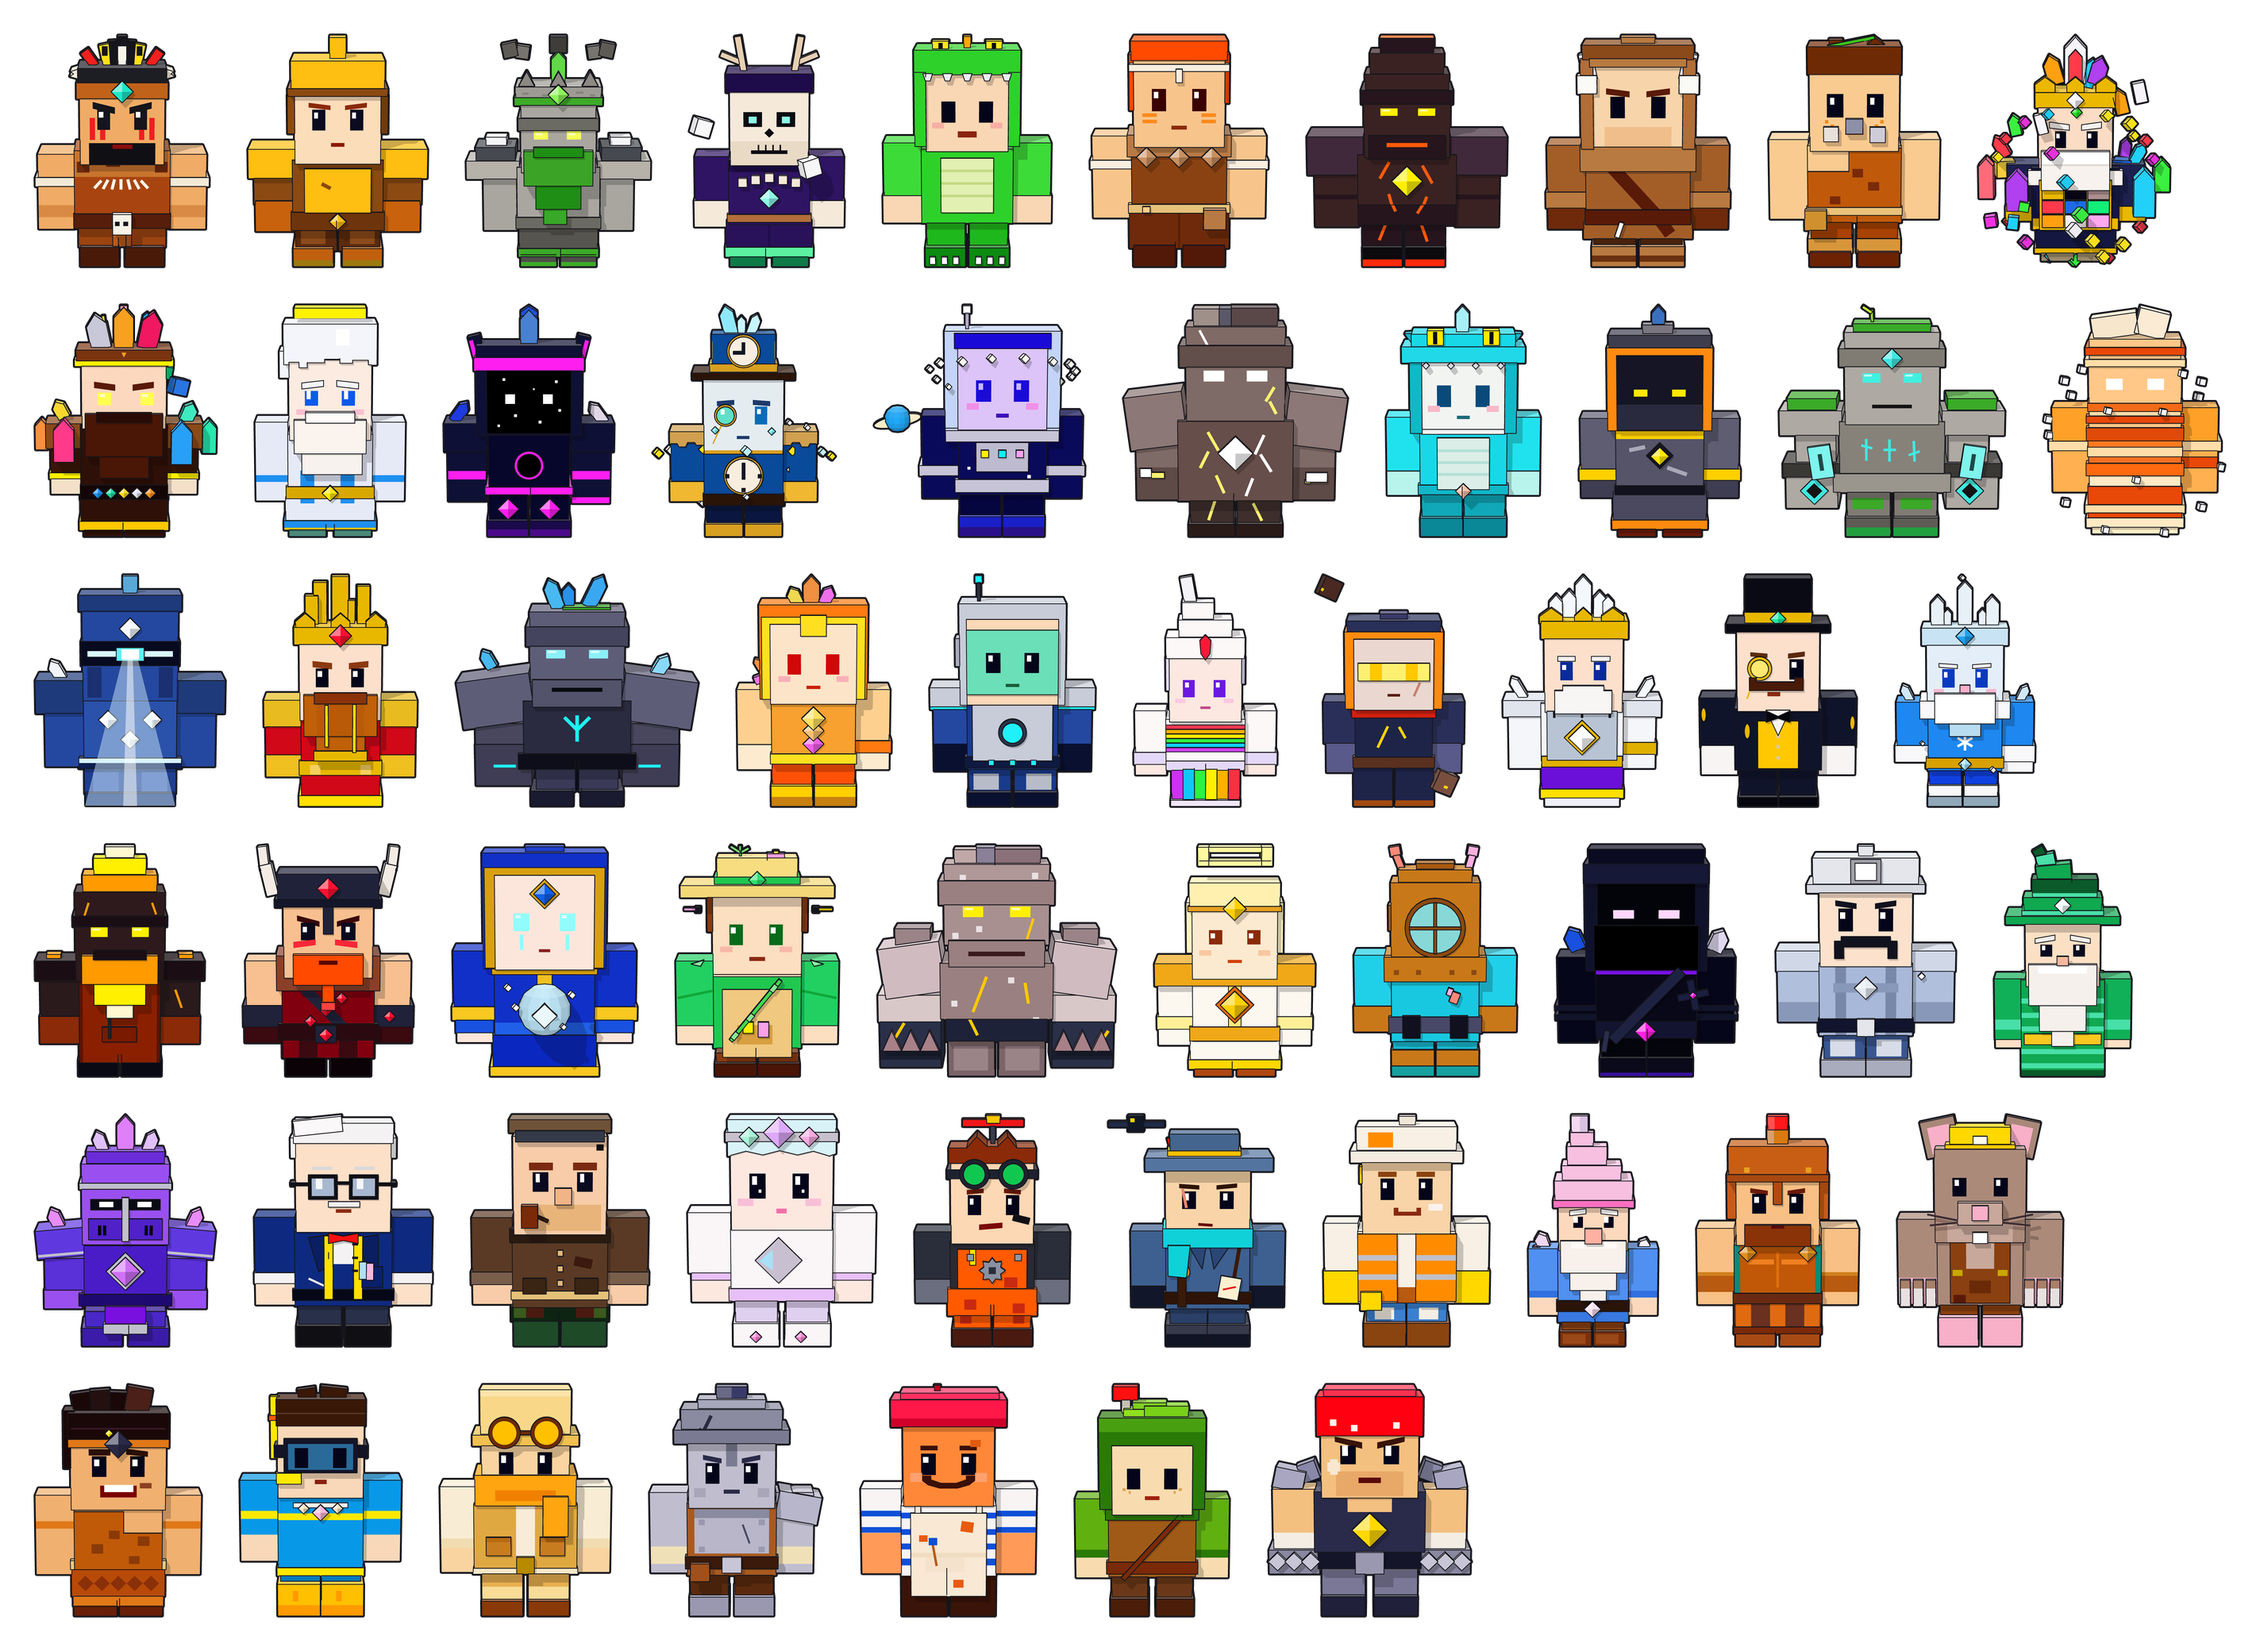
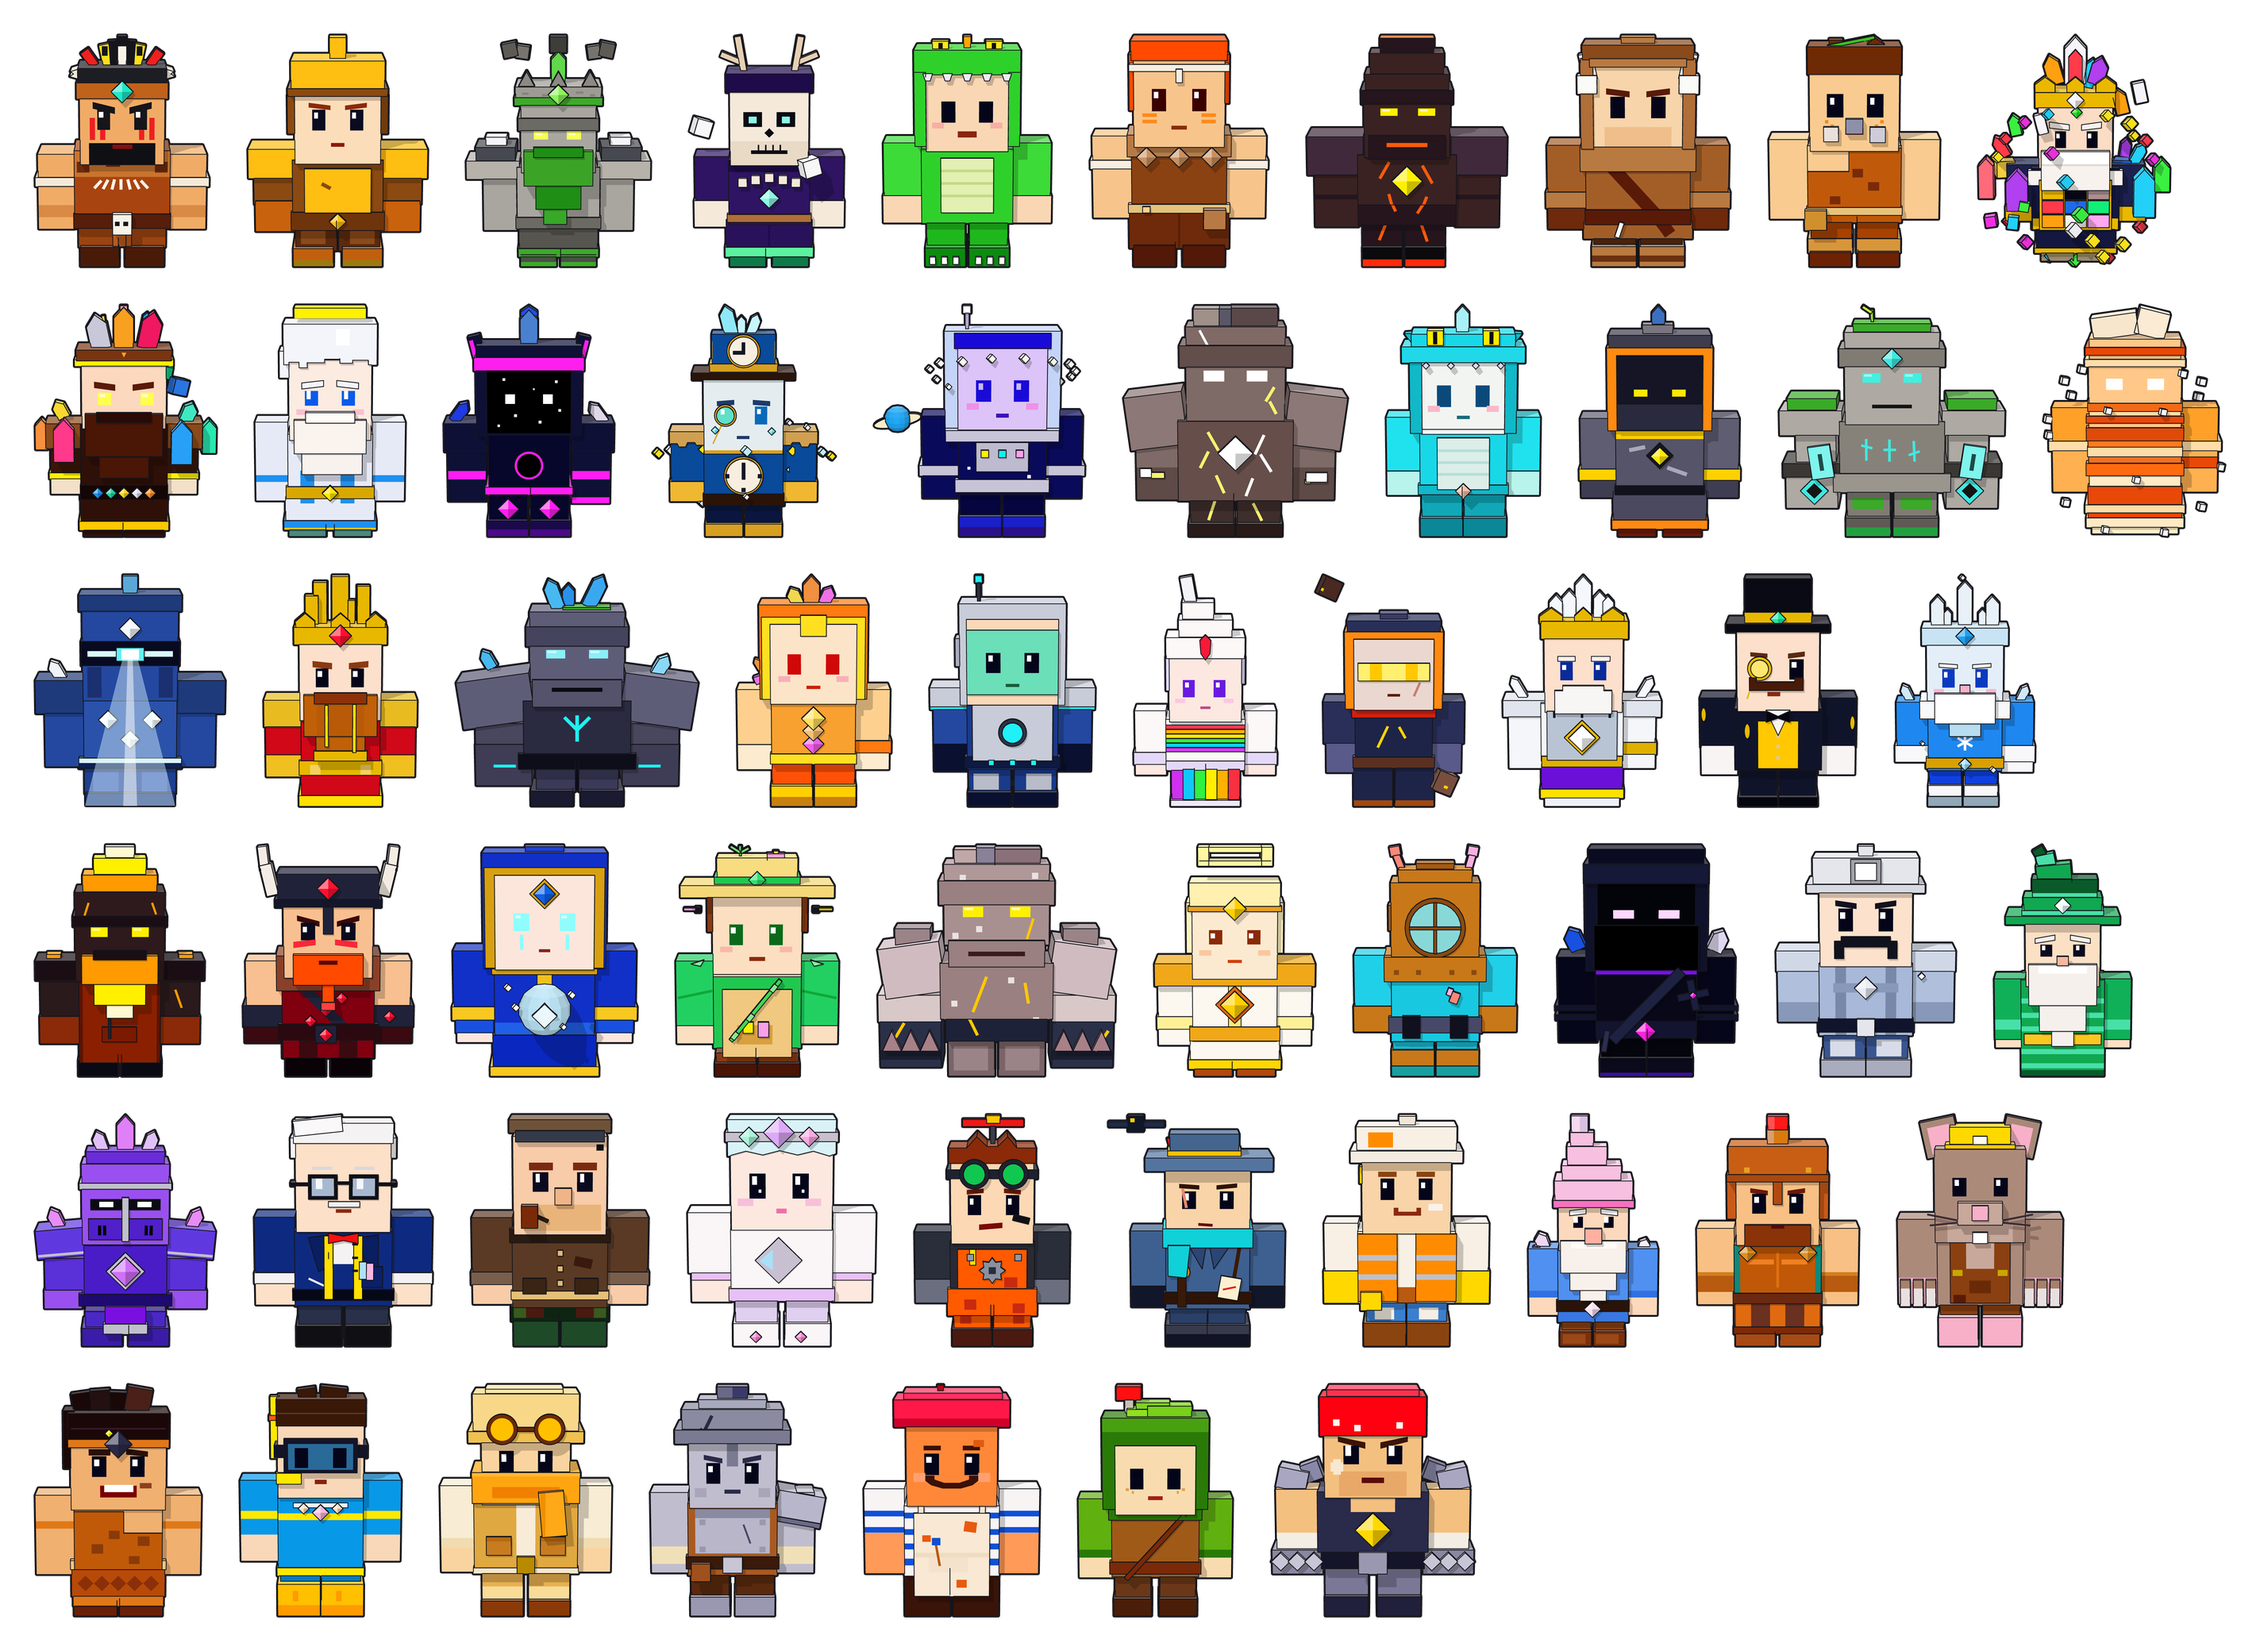
Rework the goggles explorer's hat and scarf, add the pauldron's edge stripe
The explorer's hat is now wide and low like in the screenshot, with round
goggles on the brim, and the scarf is thicker with a tilted hanging end.
Stone Recruit's shoulder slab gets the dark stripe along its lower edge.

Claude-Session: https://claude.ai/code/session_01ULLBN6QcHc2q67qZSwLzzW

Changed region(s): [[0.34, 0.8438, 0.6491, 0.9688], [0.1855, 0.8438, 0.2782, 0.9688]]

diff --git a/art3d_noweapon/src/c3dn_goggles_explorer.py b/art3d_noweapon/src/c3dn_goggles_explorer.py
@@ -8,11 +8,12 @@ BOTH = (lambda x: x, M)
 SKIN, TAN, CREAM = '#FAD4A0', '#E0A840', '#F8ECD4'
 
 # sun hat with round goggles on the front
-s.box(285, 79, M(285), 222, -95, 95, '#F8D888').f(R(285, 79, M(285), 100), '#FCE4A8')
-s.box(261, 218, M(261), 251, -118, 118, '#F0C050')
-for cx in (360, M(360)):
-    s.prism(C(cx, 210, 49), 118, 128, '#6A2A08', smooth=True).f(C(cx, 210, 37), '#FFC000')
-s.box(405, 204, M(405), 216, 118, 126, '#6A2A08')
+s.box(300, 84, 540, 100, -86, 86, '#FCE4A8')
+s.box(262, 97, M(262), 215, -106, 106, '#F8D888')
+s.box(248, 211, M(248), 245, -124, 124, '#F0C050')
+for cx in (352, M(352)):
+    s.prism(C(cx, 203, 47), 124, 134, '#6A2A08', smooth=True).f(C(cx, 203, 35), '#FFC000')
+s.box(399, 197, M(399), 209, 124, 132, '#6A2A08')
 
 # legs with cuffs, boots
 for f in BOTH:
@@ -38,7 +39,7 @@ for x in (342, M(387)):
     head.f(R(x, 274, x + 45, 344), '#05051A').f(R(x + 7, 284, x + 22, 308), '#FFFFFF')
 
 # orange scarf with a hanging end
-s.box(266, 346, M(266), 444, -108, 108, '#FFA510').f(R(330, 394, M(330), 428), '#F08000')
-s.box(480, 412, 559, 540, 108, 124, '#FFA510')
+s.box(257, 340, M(257), 438, -112, 112, '#FFA510').f(R(257, 340, M(257), 352), '#FFB838').f(R(320, 386, M(320), 421), '#F08000')
+s.box(470, 398, 548, 540, 112, 132, '#FFA818', rz=-5).f(R(470, 398, 486, 540), '#F09000')
 
 render(s, sys.argv[1])

diff --git a/art3d_noweapon/src/c3dn_stone_recruit.py b/art3d_noweapon/src/c3dn_stone_recruit.py
@@ -35,7 +35,8 @@ s.box(294, 679, 357, 739, 104, 124, '#A0501C')
 for f in BOTH:
     x0, x1 = sorted((f(159), f(283)))
     s.box(x0, 450, x1, 724, -64, 64, STONE).f(R(x0, 634, x1, 694), '#F0E0B8')
-s.cube(650, 500, 0, 140, 92, 150, '#B8B6CA', rz=10)
+s.box(575, 452, 728, 542, -76, 76, '#B8B6CA', rz=10, pivot=(650, 500, 0))
+s.box(575, 540, 728, 556, -80, 80, '#6A6A88', rz=10, pivot=(650, 500, 0))
 
 # head, helmet nose guard, angry brows, eyes, mouth, worn patches
 head = s.box(289, 275, M(289), 495, -106, 106, STONE).f(R(412, 278, M(412), 356), '#7A7A92')
